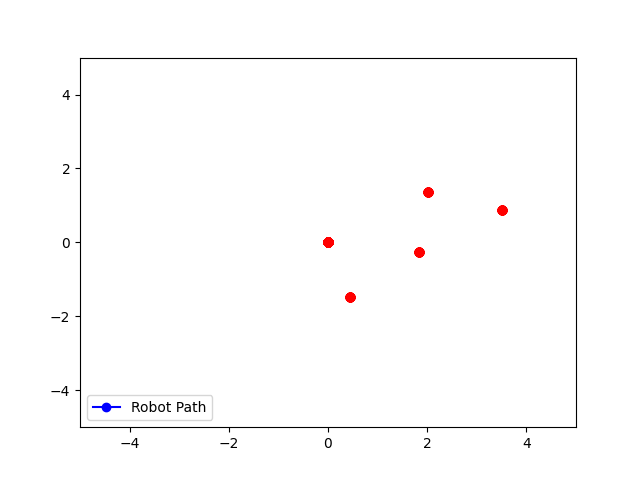
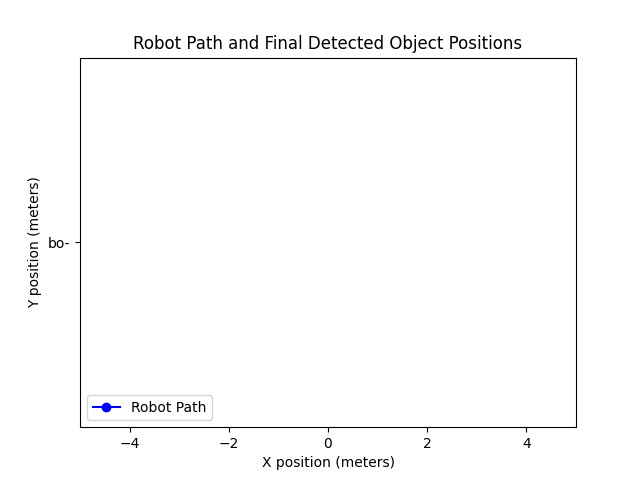
update (kind of working)

diff --git a/rb5_control/src/hw3_slam.py b/rb5_control/src/hw3_slam.py
@@ -13,24 +13,15 @@ class SlamControlNode(Node):
 
         self.image_update = False
         self.EKF_update = False
-        
+        self.state = None  # Initialize self.state as None
         
         self.movement_pub = self.create_publisher(Float32MultiArray, '/movement_command', 10)
         self.twist_pub = self.create_publisher(Twist, '/twist', 10)
         
         # Subscription to receive EKF SLAM state
-        # self.ekf_state_sub = self.create_subscription(
-        #     Float32MultiArray, '/ekf_slam_state', self.update_plot, 10
-        # )
-
         self.ekf_state_sub = self.create_subscription(
             Float32MultiArray, '/ekf_slam_state', self.get_EKF_state, 10
         )
-
-        # # Subscription to receive EKF SLAM colors
-        # self.ekf_colors_sub = self.create_subscription(
-        #     StringArray, '/ekf_slam_colors', self.get_colors, 10
-        # )
         
         # Subscription for detected object information
         self.object_sub = self.create_subscription(
@@ -43,46 +34,42 @@ class SlamControlNode(Node):
         # Publisher to send predicted SLAM state
         self.EKF_predict_pub = self.create_publisher(Float32MultiArray, '/ekf_predict', 10)
 
-        
         self.objects_to_detect = ['tv', 'bottle', 'potted plant', 'suitcase', 'umbrella', 'teddy bear', 'backpack', 'stop sign', 'oven', 'airplane']
-        # self.ekf_slam = EKFSLAM(self.objects_to_detect)
         self.fig, self.ax = plt.subplots()
         self.set_plot_limits()
         self.robot_positions = []  # Store estimated robot positions from EKF
         self.detected_objects = []  # Store positions of detected objects
         self.colors = plt.cm.get_cmap('tab10', len(self.objects_to_detect))
-  #      self.spin_and_track()
-
-    def get_colors(self, msg):
-        self.colors = msg.data
 
     def get_EKF_state(self, msg):
-        self.state = msg.data
+        # Set self.state with the data from the EKF SLAM node
+        self.state = np.array(msg.data)  # Store as a NumPy array for easy indexing
         self.EKF_update = True
-        update_plot()
+        self.update_plot()
 
-        if (self.image_update == True) and (self.EKF_update == True):
-            object_callback()
+        if self.image_update and self.EKF_update:
+            self.object_callback()
 
     def get_image(self, msg):
         self.image = msg.data
         self.image_update = True
 
-        if (self.image_update == True) and (self.EKF_update == True):
-            object_callback()
-        
+        if self.image_update and self.EKF_update:
+            self.object_callback()
+
     def set_plot_limits(self):
         self.ax.set_xlim(-5, 5)
         self.ax.set_ylim(-5, 5)
 
     def object_callback(self):
+        if self.state is None:
+            return  # Ensure that self.state is set before proceeding
+
         distance, angle, obj_index = self.image
-        robot_x, robot_y, theta = self.state[0, 0], self.state[1, 0], self.state[2, 0]
+        robot_x, robot_y, theta = self.state[0], self.state[1], self.state[2]
         obj_x = robot_x + distance * np.cos(theta + angle)
         obj_y = robot_y + distance * np.sin(theta + angle)
 
-        # Update EKF with the world-frame coordinates of the detected object
-        # self.ekf_slam.update((obj_x, obj_y), int(obj_index))
         state_msg = Float32MultiArray()
         state_msg.data = [float(obj_x), float(obj_y), float(obj_index)]
         self.EKF_update_pub.publish(state_msg)
@@ -96,13 +83,14 @@ class SlamControlNode(Node):
         self.update_and_plot()
 
     def update_plot(self):
-        state_data = self.state
-        robot_x, robot_y, theta = state_data[:3]
+        if self.state is None:
+            return  # Ensure self.state is set before plotting
+
+        robot_x, robot_y, theta = self.state[:3]
         self.robot_positions.append([robot_x, robot_y])
-        self.detected_objects.append((obj_x, obj_y, object_name))
         
-        for i in range(3, len(state_data), 2):
-            obj_x, obj_y = state_data[i], state_data[i+1]
+        for i in range(3, len(self.state), 2):
+            obj_x, obj_y = self.state[i], self.state[i+1]
             self.detected_objects.append((obj_x, obj_y))
         self.update_and_plot()
 
@@ -130,18 +118,17 @@ class SlamControlNode(Node):
         print(f"Plot saved as {filename}")
 
     def spin_and_track(self, type, length):
-        
-        if (type == 'move'):
-            print('moving')
+        if type == 'move':
+            print('Moving forward')
             self.move_forward(length)
-            print('moved')
-        elif (type == 'spin'):
-            print('spinning')
-            if (length == 90):
+            print('Moved forward')
+        elif type == 'spin':
+            print('Spinning')
+            if length == 90:
                 self.turn_90_degrees()
-            elif (length == 45):
-                self.turn_90_degrees()            # MAKE NEW FUNCTION FOR 45 DEGREE TURN FOR OCTOGON
-            print('spun')
+            elif length == 45:
+                self.turn_45_degrees()
+            print('Spun')
 
         self.save_plot()
         time.sleep(1)
@@ -152,7 +139,8 @@ class SlamControlNode(Node):
     def move_forward(self, distance):
         print("Moving forward by 0.5 meters")
         control_input = [distance, 0.0]
-        # self.ekf_slam.predict(control_input)
+        
+        # Send movement command to EKF SLAM node
         state_msg = Float32MultiArray()
         state_msg.data = control_input
         self.EKF_predict_pub.publish(state_msg)
@@ -164,14 +152,16 @@ class SlamControlNode(Node):
         move_twist.linear.x = 0.0
         self.twist_pub.publish(move_twist)
 
-        robot_x, robot_y = self.state[0, 0], self.state[1, 0]
-        self.robot_positions.append([robot_x, robot_y])
-        print(f"Updated Position: x = {robot_x}, y = {robot_y}")
+        if self.state is not None:
+            robot_x, robot_y = self.state[0], self.state[1]
+            self.robot_positions.append([robot_x, robot_y])
+            print(f"Updated Position: x = {robot_x}, y = {robot_y}")
 
     def turn_90_degrees(self):
         print("Turning 90 degrees")
         control_input = [0.0, np.pi / 2]
-        # self.ekf_slam.predict(control_input)
+        
+        # Send movement command to EKF SLAM node
         state_msg = Float32MultiArray()
         state_msg.data = control_input
         self.EKF_predict_pub.publish(state_msg)
@@ -183,7 +173,8 @@ class SlamControlNode(Node):
         turn_twist.angular.z = 0.0
         self.twist_pub.publish(turn_twist)
 
-        print(f"Updated Heading (theta): {self.state[2, 0]} radians")
+        if self.state is not None:
+            print(f"Updated Heading (theta): {self.state[2]} radians")
 
     def plot_final_landmarks(self):
         self.ax.clear()
@@ -206,8 +197,9 @@ class SlamControlNode(Node):
         print("\nFinal Coordinates of Detected Objects:")
         for i, obj_name in enumerate(self.objects_to_detect):
             landmark_idx = 3 + 2 * i
-            obj_x, obj_y = self.state[landmark_idx, 0], self.state[landmark_idx + 1, 0]
-            print(f"{obj_name}: (x = {obj_x:.2f}, y = {obj_y:.2f})")
+            if self.state is not None:
+                obj_x, obj_y = self.state[landmark_idx], self.state[landmark_idx + 1]
+                print(f"{obj_name}: (x = {obj_x:.2f}, y = {obj_y:.2f})")
 
 def main(args=None):
     rclpy.init(args=args)
@@ -217,10 +209,9 @@ def main(args=None):
     node.spin_and_track('move', 0.0)
     time.sleep(1)
     
-    # TRY 1
+    # Movement pattern example
     for _ in range(4):
         for _ in range(4):  # Stop every 0.5 meters
-            print("SLAM loop")
             node.spin_and_track('move', 0.5)
             time.sleep(1)
         node.spin_and_track('spin', 90)
@@ -230,34 +221,6 @@ def main(args=None):
         rclpy.spin(node)
     except KeyboardInterrupt:
         pass
-
-
-    # # TRY 2
-    # try:
-    #     rclpy.spin(node)
-    # except KeyboardInterrupt:
-    #     pass
-
-    # for _ in range(4):
-    #     for _ in range(4):  # Stop every 0.5 meters
-    #         node.spin_and_track('move', 0.5)
-    #         time.sleep(1)
-    #     node.spin_and_track('spin', 90)
-    #     time.sleep(1)
-
-
-    # # TRY 3
-    # for _ in range(4):
-    #     for _ in range(4):  # Stop every 0.5 meters
-    #         node.spin_and_track('move', 0.5)
-    #         time.sleep(1)
-    #         # rclpy.spin_once(node)
-    #         # time.sleep(1)
-    #     node.spin_and_track('spin', 90)
-    #     time.sleep(1)
-    #     # rclpy.spin_once(node)
-    #     # time.sleep(1)
-
 
     node.destroy_node()
     rclpy.shutdown()

diff --git a/rb5_control/src/hw3_ekf.py b/rb5_control/src/hw3_ekf.py
@@ -18,10 +18,6 @@ class EKFSLAM(Node):
         self.object_list = object_list
         self.colors = plt.cm.get_cmap('tab10', len(object_list))
 
-        # self.colors_pub = self.create_publisher(StringArray, '/ekf_slam_colors', 10)
-        # publish_slam_colors()
-        
-
         # Subscriber to receive movement commands
         self.movement_sub = self.create_subscription(
             Float32MultiArray, '/movement_command', self.movement_callback, 10
@@ -44,7 +40,6 @@ class EKFSLAM(Node):
 
         # Publisher to send updated SLAM state
         self.state_pub = self.create_publisher(Float32MultiArray, '/ekf_slam_state', 10)
-
 
     def predict(self, msg):
         """Predict step for EKF based on control input."""
@@ -74,16 +69,11 @@ class EKFSLAM(Node):
 
     def update(self, msg):
         """Update step for EKF using the landmark position relative to world frame."""
-        if msg.data:
-            obj_x, obj_y, obj_index = msg.data
-            obj_index = int(obj_index)
-        else:
-            obj_x, obj_y = msg[0]
-            obj_index = msg[1]
+        obj_x, obj_y, obj_index = msg.data
+        obj_index = int(obj_index)
         
         x, y, theta = self.state[0, 0], self.state[1, 0], self.state[2, 0]
-        # obj_x, obj_y = measurement  # World coordinates of the detected object
-        landmark_idx = 3 + 2 * int(obj_index)
+        landmark_idx = 3 + 2 * obj_index
         
         if self.P[landmark_idx, landmark_idx] > 999:
             self.state[landmark_idx, 0] = obj_x
@@ -124,13 +114,17 @@ class EKFSLAM(Node):
         self.P = (np.eye(len(self.state)) - K @ H) @ self.P
 
     def movement_callback(self, msg):
-        distance, angle = msg.data
-        self.predict([distance, angle])
+        # Publish the received movement command to predict
+        predict_msg = Float32MultiArray()
+        predict_msg.data = msg.data
+        self.predict(predict_msg)
         self.publish_slam_state()
 
     def update_callback(self, msg):
-        obj_x, obj_y, obj_index = msg.data
-        self.update([[obj_x, obj_y], int(obj_index)])
+        # Publish the received object data to the `/ekf_update` topic
+        update_msg = Float32MultiArray()
+        update_msg.data = msg.data
+        self.update(update_msg)
         self.publish_slam_state()
 
     def publish_slam_state(self):
@@ -138,15 +132,10 @@ class EKFSLAM(Node):
         state_msg.data = np.concatenate((self.state[:3].flatten(), self.state[3:].flatten())).tolist()
         self.state_pub.publish(state_msg)
 
-    def publish_slam_colors(self):
-        state_msg = StringArray()
-        state_msg.data = self.colors
-        self.colors_pub.publish(state_msg)
-    
 def main(args=None):
     rclpy.init(args=args)
     node = EKFSLAM(object_list=['tv', 'bottle', 'potted plant', 'suitcase', 'umbrella', 'teddy bear', 'backpack', 'stop sign', 'oven', 'airplane'])
-    print("EKF")
+    print("EKF Running...")
     try:
         rclpy.spin(node)
         print("EKF spin")
